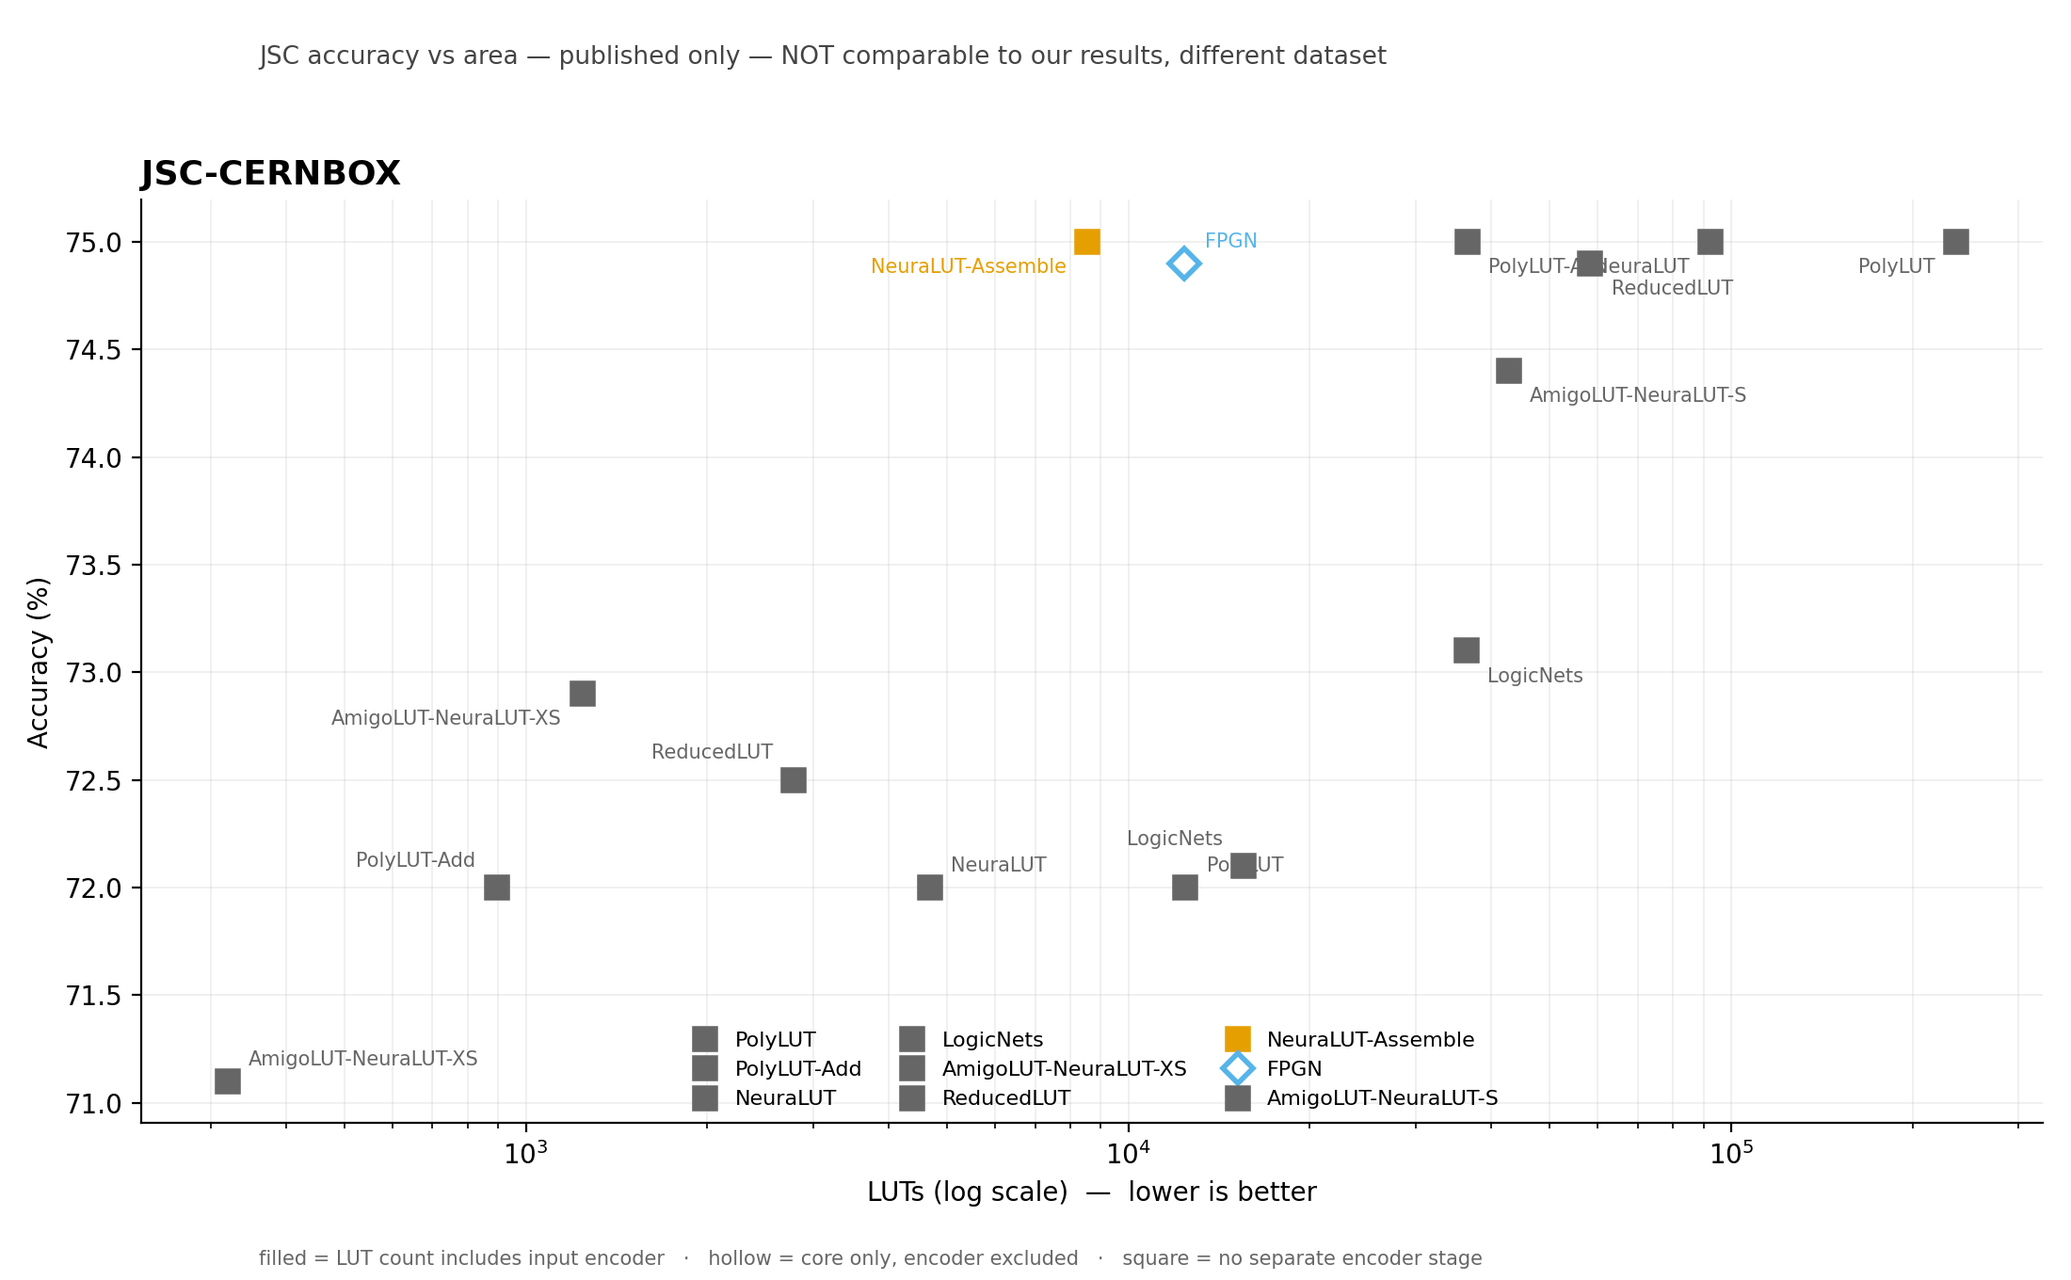
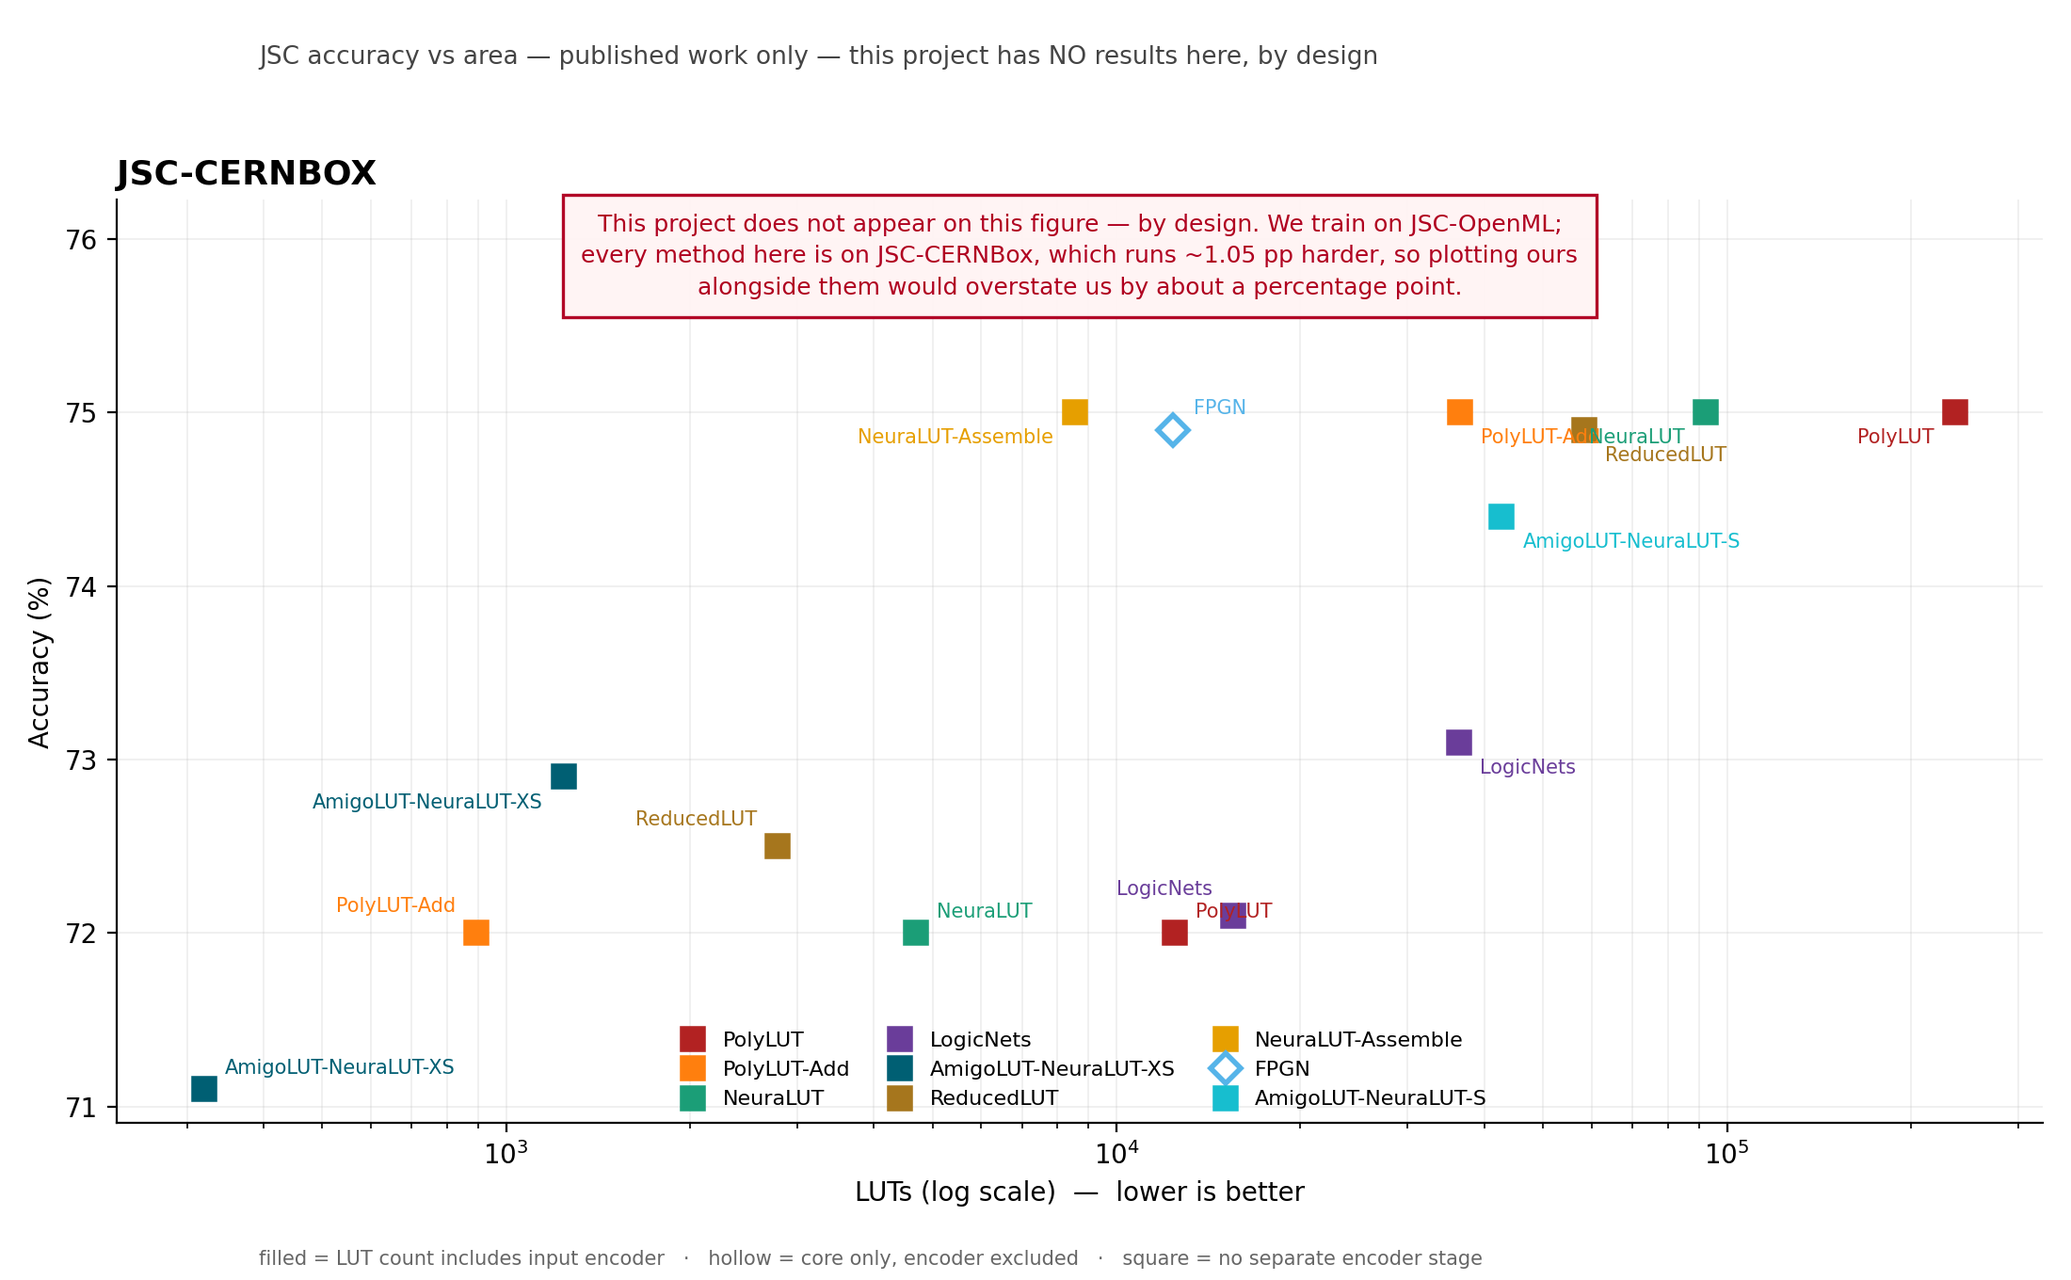
add the phase 3 report, fix cernbox plot colours

diff --git a/cc/literature/plot.py b/cc/literature/plot.py
@@ -30,15 +30,32 @@ OUT = os.path.join(REPO, 'build', 'cc', 'literature')
 SNAP = os.path.join(REPO, 'docs', 'results-cc')
 DEVICE_LUTS = 20800
 
-# Okabe-Ito: distinguishable under the common CVD types and in greyscale.
+# Okabe-Ito plus four extensions, assigned in a FIXED order so a method keeps its colour
+# across both figures. Colour is a secondary cue only -- every point is also directly
+# labelled, so identity never rests on hue alone.
 C = {
+    # our silicon
     'this project': '#0072B2',
     'conifer (GBDT)': '#D55E00',
+    # the DWN family
     'DWN': '#009E73',
+    # published, OpenML
     'TreeLUT': '#CC79A7',
     'NeuraLUT-Assemble': '#E69F00',
     'FPGN': '#56B4E9',
     'hls4ml (Fahim et al.)': '#8B4513',
+    'hls4ml (Duarte et al.)': '#7F7F7F',
+    # published, CERNBox -- these were all falling through to grey, which made a nine-method
+    # figure unreadable
+    'PolyLUT': '#B22222',
+    'PolyLUT-Add': '#FF7F0E',
+    'NeuraLUT': '#1B9E77',
+    'LogicNets': '#6A3D9A',
+    'AmigoLUT-NeuraLUT-S': '#17BECF',
+    'AmigoLUT-NeuraLUT-XS': '#005F73',
+    'ReducedLUT': '#A6761D',
+    'SparseLUT': '#E7298A',
+    'LLNN': '#444444',
 }
 DEFAULT = '#666666'
 _LBL = [0]        # rotates label offsets across series
@@ -142,12 +159,27 @@ def main(argv=None):
 
         sub = ('our silicon (xc7a35t-1) vs published (xcvu9p) — LUTs transfer, ns does not'
                if ours else
-               'published only — NOT comparable to our results, different dataset')
+               'published work only — this project has NO results here, by design')
         fig.suptitle(f'JSC accuracy vs area — {sub}', fontsize=9.5, y=.965,
                      x=.125, ha='left', color='#444')
         h, l = ax.get_legend_handles_labels()
         ax.legend(h, l, loc='lower center', fontsize=8, frameon=False, ncol=3,
                   bbox_to_anchor=(.5, -.005), columnspacing=1.4, handletextpad=.4)
+        if not ours:
+            # Make headroom rather than hunt for a gap: with 9 methods and a direct label on
+            # every point there is no reliable empty patch inside the data, and a caption that
+            # overlaps the points it is explaining defeats its own purpose.
+            lo, hi = ax.get_ylim()
+            ax.set_ylim(lo, hi + (hi - lo) * .24)
+            ax.text(.5, .985,
+                    'This project does not appear on this figure — by design. '
+                    'We train on JSC-OpenML;\n'
+                    'every method here is on JSC-CERNBox, which runs ~1.05 pp harder, so '
+                    'plotting ours\n'
+                    'alongside them would overstate us by about a percentage point.',
+                    transform=ax.transAxes, ha='center', va='top', fontsize=9,
+                    color='#B00020', linespacing=1.5,
+                    bbox=dict(fc='#FFF4F4', ec='#B00020', lw=1.2, alpha=.97, pad=7))
         fig.text(.125, .012,
                  'filled = LUT count includes input encoder   ·   hollow = core only, encoder '
                  'excluded   ·   square = no separate encoder stage',

diff --git a/docs/phase3-report.md b/docs/phase3-report.md
@@ -1,0 +1,281 @@
+# Phase 3 — the controlled comparison: what we measured, what we could not, and two ways this literature lies
+
+**Question (brief §10):** for the same task on the same silicon, how does hand-written weightless
+RTL compare to the standard FPGA-ML toolchains — and where does it sit against the published
+LUT-DNN literature?
+
+Two halves, run on two machines. The *hands-on* half (conifer) was measured through the same
+`scripts/build.tcl` flow as all 54 Phase 2 DWN configs. The *literature* half is citation and
+plotting only. Running log with the dated detail: `docs/phase3-ledger.md`.
+
+⚠ **The most useful thing in this report is not a number.** It is that the standard JSC
+comparison table — the one reproduced in the DWN paper, in Mecik & Kumm, and in the 2025 survey —
+**mixes two different datasets and two different area conventions.** §3 is that finding. Every
+result below is stated in a way that survives it.
+
+---
+
+## 1. Headline results
+
+| | |
+|---|---|
+| **DWN vs conifer, identical silicon** | **+1.5 to +1.7 pp accuracy at every area budget**; 2.3–6.0× fewer LUTs at matched accuracy |
+| **Can a GBDT match DWN here?** | **No.** conifer tops out at **74.88%** using 73.9% of the device. DWN reaches that at **3,381 LUTs** and continues to 76.35% |
+| **Where conifer wins** | **Speed, decisively** — 477.3 MHz vs our 101–147 MHz; 4.2–16.8 ns vs our 27–40 ns. In *cycles* they are comparable (2–8 vs our 4) |
+| **DSP/BRAM** | 0/0 for **all** 14 conifer configs and **all** 52 DWN configs. The DSP argument is against hls4ml's MLPs only |
+| **hls4ml** | **Scoped out**, not attempted — see §5. Its published design is 3× over the device on LUTs alone |
+| **Best published LUT count at ≥76% on our dataset** | NeuraLUT-Assemble, **1,780 LUTs** — against our 12,751 |
+
+---
+
+## 2. What was compared, and on what
+
+Everything in the "measured" column below went through `scripts/build.tcl`, out-of-context,
+`xc7a35tcpg236-1`, 10 ns, same strategy, same thread count.
+
+| source | rows | status |
+|---|---|---|
+| DWN (this project) | 41 fitting configs | measured, Phase 2 |
+| conifer (GBDT) | 10 fitting of 14 | measured, Phase 3 |
+| published LUT-DNN family | 32 rows, 11 methods | cited, `cc/literature/jsc_literature.json` |
+
+Figures: `docs/results-cc/jsc-openml.png`, `docs/results-cc/jsc-cernbox.png`.
+Regenerate with `.venv\Scripts\python.exe cc\literature\plot.py --snapshot`.
+
+---
+
+## 3. ⚠ Two ways this literature lies, and both had to be fixed before any table meant anything
+
+### 3.1 "JSC" is two datasets, ~1.05 pp apart
+
+| | JSC-**OpenML** | JSC-**CERNBox** |
+|---|---|---|
+| source | `hls4ml_lhc_jets_hlf`, OpenML 42468 | CERNBox LHC Jets |
+| instances | ~830,000 | 986,806 |
+| **who uses it** | **DWN, TreeLUT, hls4ml — and us** | LogicNets, PolyLUT, PolyLUT-Add, NeuraLUT, AmigoLUT, ReducedLUT, SparseLUT |
+
+NeuraLUT-Assemble (arXiv:2504.00592 §5) states it plainly: *"Both datasets target the same jet
+classification task… Experimentally, we observed that models trained on the OpenML dataset achieve
+higher accuracy."*
+
+**The offset is measured within-method, twice**, in FPGN's Table V — the only clean way to get it:
+NeuraLUT-Assemble scores 76.0% (OpenML) vs 75.0% (CERNBox); FPGN scores 76.0% vs 74.9%. That is
+**~1.05 pp, seven times our 0.15 pp noise floor**, and larger than nearly every difference our
+own Pareto frontier argues about.
+
+**We are on OpenML** — `third_party/DWN`'s tutorial calls `openml.datasets.get_dataset(42468)`,
+our training notebooks call `fetch_openml('hls4ml_lhc_jets_hlf')`, and our 166k test set is 20% of
+~830k.
+
+**Consequence:** the comparison everyone quotes — DWN against PolyLUT/NeuraLUT/LogicNets — is
+cross-dataset. Those are CERNBox rows. Our real peer group on OpenML is much smaller and much
+tougher: DWN, TreeLUT, NeuraLUT-Assemble, FPGN, hls4ml.
+
+`cc/literature/plot.py` refuses to draw both datasets on one axis, and `table.py` refuses to print
+them in one table. This is enforced in code rather than remembered.
+
+### 3.2 LUT counts do not all include the input encoder
+
+The DWN paper reports `lg` at **4,972 LUTs — core only, no thermometer encoder.** With the encoder
+it is **7,011** (Mecik & Kumm's `DWN-PEN+FT`). Ours are always totals. Quoting one against the
+other is wrong in both directions, and this is exactly why brief §6 requires core and encoder
+reported separately.
+
+Three different published numbers exist for DWN `lg`: **4,972** (core only), **7,011** (with
+encoder), **6,302** (FPGN's re-implementation, convention unstated). Any comparison must say which.
+
+**For the non-DWN rows the convention is `n/a`, and this was verified, not assumed.** TreeLUT
+quantises inputs *"as a pre-processing step"* — host-side, exactly as our StandardScaler is. And
+Mecik & Kumm settle it for the family: *"In previous performance evaluations, only the resource
+usage of the LUT layer and the classification logic was reported"* — said **of DWN**. DWN was the
+outlier; the LUT-based architectures report complete designs. They feed quantised inputs straight
+into LUT address lines and have no expansion stage. DWN needs an encoder because thermometer
+coding turns 16 features into 3,200 bits.
+
+### 3.3 Both defects originate upstream
+
+DWN v5's own JSC table lists `hls4ml` (OpenML) beside `PolyLUT` and `NeuraLUT` (CERNBox), and
+reports its own LUTs core-only against their full designs. **Both mistakes are in the primary
+source and propagate by copying.** Mecik & Kumm's Table II and the 2025 survey inherit the dataset
+mixing; the survey splits JSC only by accuracy band and never mentions two data sources exist.
+
+---
+
+## 4. DWN vs conifer — the same-silicon result
+
+Both through our flow, same part, same clock, same strategy.
+
+**Iso-area — best accuracy within a LUT budget:**
+
+| budget | DWN | conifer | gap |
+|---|---|---|---|
+| 4,000 | `1x360 z=25` 75.27% | `gbdt_d3_n10` 73.64% | **+1.63 pp** |
+| 8,000 | `1x800 z=50` 75.95% | `gbdt_d5_n5` 74.36% | **+1.59 pp** |
+| 12,751 | `1x2400 z=50` 76.18% | `gbdt_d6_n3` 74.50% | **+1.68 pp** |
+| 20,800 | `1x1600` 76.35% | `gbdt_d3_n40` 74.88% | **+1.48 pp** |
+
+**Iso-accuracy — smallest design reaching a target:**
+
+| target | DWN | conifer | ratio |
+|---|---|---|---|
+| 73.6% | 1,619 | 3,774 | **2.3×** |
+| 74.2% | 2,541 | 7,602 | **3.0×** |
+| 74.5% | 2,541 | 15,363 | **6.0×** |
+| ≥74.9% | 3,381 | **never reaches it** | — |
+
+**A GBDT does not reach DWN's accuracy on this part at any size that fits.**
+
+### 4.1 Where conifer wins, and it is not close
+
+**Speed.** conifer closes at **477.3 MHz** on the same part where our headline design manages
+**101.3 MHz**, and its latency is **4.2–16.8 ns** against our **27–40 ns**.
+
+The reason is structural: our critical path is a 2,400-wide popcount and argmax; a boosted tree is
+a shallow comparison cascade. Reported in **cycles** the two are comparable — conifer 2–8, ours 4
+— which is precisely why brief §6 requires cycles alongside nanoseconds.
+
+**The fair one-line summary: DWN wins accuracy-per-LUT; conifer wins speed.** Anyone quoting only
+the first half is quoting us selectively.
+
+### 4.2 What conifer cost to get right
+
+Four silent failures, all recorded in the ledger. The one worth repeating: **xgboost ≥ 2.0
+auto-fits a per-class base score that conifer 1.9 cannot read**, emitting
+`init_predict = [-4.965, NaN, -4.965, -5.742, -4.862]`. A single NaN makes that class's score NaN
+for every sample and sends the argmax arbitrary — **127,034 of 166,000 predictions wrong**, while
+producing entirely plausible-looking HDL. Caught by an independent numpy evaluator of conifer's
+own emitted ensemble JSON: the same golden-model pattern Gate 1 uses.
+
+---
+
+## 5. hls4ml was scoped out — stated, not omitted
+
+**A decision, not an unfinished task.**
+
+| | hls4ml (Fahim et al.) | ours (`1x2400 z=50`) |
+|---|---|---|
+| accuracy | 76.0% | **76.18%** |
+| LUTs | **63,251** | **12,751** |
+| DSPs | **38** | **0** |
+| part | `xcvu9p` | `xc7a35t-1` |
+
+63,251 against a 20,800-LUT device is **3× over** — arithmetic, not something that needs
+measuring — and the row is on our own OpenML split. Plan §4.2 already sanctions the cross-part LUT
+comparison ("LUT counts roughly transfer; Fmax and ns do not").
+
+> **Wording for any writeup:** *hls4ml was not re-synthesized on our part. Its published JSC design
+> (76.0%, 63,251 LUTs, 38 DSPs on xcvu9p) exceeds the XC7A35T by 3× on LUTs alone, so the
+> comparison is made from published numbers with the part difference stated. What we do not
+> measure is what accuracy hls4ml retains when shrunk to fit this device.*
+
+⚠ **What this weakens.** The 0 BRAM / 0 DSP column is the central claim against hls4ml — and
+conifer is also 0/0 across all 14 configs, because trees do not spend DSPs either. **On our own
+silicon the DSP argument is therefore unexercised**; it rests entirely on published hls4ml numbers.
+
+**The cheap version, if time reappears:** one config, not a sweep. Because the control is *our*
+synthesis flow, hls4ml's version and OS never enter the comparison — generate Verilog anywhere and
+synthesize it here.
+
+---
+
+## 6. Where we sit against the published field, on our dataset
+
+JSC-OpenML only. DWN rows shown in both conventions.
+
+| Method | Acc | LUT | Encoder | Part |
+|---|---|---|---|---|
+| **this project** `1x1600` | **76.35%** | 18,777 | incl | `xc7a35t-1` |
+| DWN `lg-2400` | 76.3% | 4,972 | core only | `xcvu9p-2` |
+| DWN `lg-2400` PEN+FT | 76.3% | 7,011 | **incl** | `xcvu9p-2` |
+| **this project** `1x2400 z=50` | **76.18%** | **12,751** | incl | `xc7a35t-1` |
+| hls4ml (Fahim et al.) | 76.0% | 63,251 | n/a | `xcvu9p` |
+| TreeLUT (I) | 76.0% | 2,234 | n/a | `xcvu9p-2` |
+| **NeuraLUT-Assemble** | 76.0% | **1,780** | n/a | `xcvu9p-2` |
+| FPGN | 76.0% | 3,345 | ? | `vu9p` |
+| conifer `gbdt_d3_n40` | 74.88% | 15,363 | n/a | `xc7a35t-1` |
+
+**Read this honestly.** The best published LUT count at ≥76% on our dataset is **1,780**, against
+our 12,751. We are not competitive on raw area with the specialised LUT-DNN compilers.
+
+What is different about our numbers, and must be said whenever they are quoted:
+
+- **Encoder included.** Ours are complete designs. The 4,972 figure is not.
+- **A `xc7a35t-1` at 100 MHz**, not a `xcvu9p-2` at 700 MHz — a ~$150 board against a data-centre
+  part. LUT counts roughly transfer; Fmax and nanoseconds do not.
+- **The comparable row is DWN `lg` PEN+FT at 7,011**, the only one sharing both our dataset and
+  our convention.
+
+---
+
+## 7. A finding from the literature half: our encoder was 5.9× too large
+
+Mecik & Kumm's encoder costs **201 LUTs** where ours costs **1,519** on the same 50-node model at
+the same `z=200`. Chasing that produced the largest single area result of the project.
+
+**The cause is comparator width, entirely.** They normalise features to [−1,1) and quantise to
+6–9 bits; we carried a global Q3.12 16-bit word whose 3 integer bits exist only because our
+features are standard-scaled to roughly ±4.5. At 8 bits ours is **182 LUTs** against their 201 —
+no clever structure was missing, only narrower numbers.
+
+Measured on `1x2400 z=50`, accuracy on all 166k, area out-of-context:
+
+| word | LUTs | vs today | accuracy-safe? |
+|---|---|---|---|
+| 16 | 5,753 | 1.00× | — |
+| 12 | 4,157 | 1.38× | yes |
+| **11** | **992** | **5.80×** | **yes (−0.142 pp)** |
+| 10 | 891 | 6.46× | no (−0.219 pp) |
+
+**There is a cliff between 12 and 11 bits** — 4.7× for two bits — and the accuracy limit lands on
+the cheap side of it by exactly one bit. That is luck, not design: one bit lower and the usable
+saving would have been 1.38×.
+
+**It does not change Phase 2's conclusions**, and the reason matters: every config that beat our
+headline failed on **timing**, not area, and the encoder is not on the critical path (347 MHz vs
+the core's 101.2). Shrinking it ~6× does not move the wall — which is the strongest confirmation
+of *"the wall is timing, not area"* we have.
+
+⚠ **Not adopted.** Projected 12,751 → ~7,990 LUTs (~38% of device), but it buys area on a design
+whose binding constraint is timing, and adopting it costs a renorm-capable emitter, host-side
+scaler changes and Gate 1 regeneration. Recorded as a finding; `docs/phase3-ledger.md` carries the
+full numbers.
+
+---
+
+## 8. Limitations
+
+- **hls4ml not measured on our part** (§5). The DSP claim is unexercised on our silicon.
+- **⚠ Which JSC dataset the DWN paper used is unresolved.** The paper says *"as in the NeuraLUT
+  paper"* (CERNBox); its released code, FPGN's classification, our own reproduction within 0.12 pp,
+  and its accuracy level all say OpenML. Four lines of evidence against one sentence. **Our
+  headline comparison against DWN `lg` is only valid if OpenML.** The authors have been asked; no
+  reply yet.
+- **LLNN's dataset is unknown** (IEEE TCAS-I, paywalled). Two rows are on neither figure.
+- **SparseLUT, BitLogic, KANELE not extracted** — known to exist, numbers not pulled.
+- **conifer is one tool, not "the standard toolchains".** With hls4ml scoped out, the controlled
+  comparison rests on a single baseline.
+- **Datapath precision was fixed** at Q3.12 across all 54 Phase 2 configs, and §7 shows it was the
+  largest unswept axis in the project.
+
+---
+
+## 9. Reproducing this
+
+```
+.venv\Scripts\python.exe cc\literature\table.py                  # combined table, OpenML
+.venv\Scripts\python.exe cc\literature\table.py --dataset cernbox
+.venv\Scripts\python.exe cc\literature\plot.py --snapshot        # both figures
+.venv\Scripts\python.exe cc\conifer\run_conifer.py --sweep       # needs Vivado + HLS
+```
+
+Committed evidence: `docs/results-cc/` (conifer measurements + both figures),
+`cc/literature/jsc_literature.json` (32 published rows, each with source and confidence).
+
+---
+
+## 10. Pointers
+
+- `docs/phase3-ledger.md` — the dated log, including every correction and retraction
+- `docs/phase3-plan.md` — what Phase 3 set out to do
+- `docs/phase2-report.md` — the DWN frontier this compares against
+- `cc/literature/jsc_literature.json` — per-row source, dataset, convention, confidence

diff --git a/docs/phase3-ledger.md b/docs/phase3-ledger.md
@@ -20,7 +20,7 @@ it says so rather than editing it away.
 | 3L-d | Combined comparison table + Pareto plot with our 15 frontier points | ✅ done 2026-08-11 — `cc/literature/plot.py`, figures in `docs/results-cc/` |
 | 3X-a | Encoder input-word width: accuracy floor + area curve | ✅ done 2026-08-10 — **5.9x smaller encoder** |
 | 3X-b | Re-run 3X-a at `1x2400 z=50` before quoting anything | ✅ done 2026-08-10 — **the width limit moved; the saving held** |
-| 3L-e | Phase 3 report — literature section | ⬜ |
+| 3L-e | Phase 3 report | ✅ done 2026-08-11 — `docs/phase3-report.md`, covers both halves |
 | 3M-a | conifer (GBDT) — *hands-on machine* | ✅ done 2026-08-10 — **14 configs, `docs/results-cc/`** |
 | 3M-b | hls4ml (quantized MLP) — *hands-on machine* | ⚠ **scoped out** — see the entry below |
 
